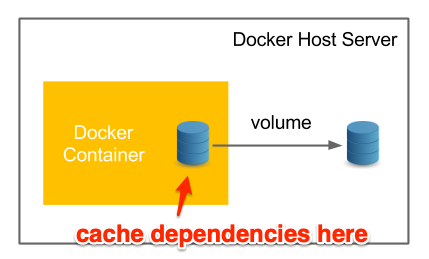
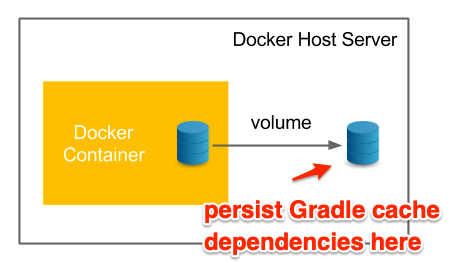
Add new and start emulator base on host machine settings (#18)
* Add new start emulator base on host machine

* Update travis config to run UI Tests

Changed region(s): [[0.0303, 0.0618, 1.0, 0.9884]]

diff --git a/README.md b/README.md
@@ -11,10 +11,10 @@
 
 
 # Gradle
-You can either use Gradle Wrapper or Local Installation to perform desired tasks but IMO, you should choose first option whenever it's possible, to gain the following benefits:
+You can either use Gradle Wrapper or Local Installation to perform desired tasks but IMO, you should choose first option whenever it's because of these following reasons:
 
 * Reliable. Different users get the same build result on a given Gradle version.
-* Configurable. Let's say that you want to provision a new version of Gradle to different users and execution environments (IDE, CI machine, etc), imagin how easy it is when people just needs to get the lastest configs, Wrapper will take care the rest.
+* Configurable. Let's say that you want to provision a new version of Gradle to different users and execution environments (IDE, CI machine, etc), you only need to update the config file, Wrapper will take care the rest.
 
 
 ### Understand Gradle Wrapper
@@ -22,14 +22,14 @@ Gradle wrapper is simply a script that allow user to run the build with predefin
 
 ![gradle wrapper properties](https://github.com/fastphat/android-container/blob/master/images/gradle-wrapper.png?raw=true)
 
-To change the version of Gradle Wrapper, grab one at [https://services.gradle.org/distributions/](https://services.gradle.org/distributions/) and update value of `distributionUrl`.
+To change the version of Gradle Wrapper, grab one at [https://services.gradle.org/distributions/](https://services.gradle.org/distributions/) and update `distributionUrl`.
 
 ### How to cache gradle distribution and build dependencies?
 By default all files downloaded under docker container doesn't persist if that container is removed. Therefore, Gradle needs to download it's distribution and build dependencies for every build. 
 
-In order to prevent that behavior, Docker offers a solution called [Volume](https://docs.docker.com/storage/). Volumes are typically directories or files on host filesystem and are accessible from both container and host machine. That mean they will not be removed after the container is no longer exist.
+In order to prevent that behavior, Docker offers a solution called [Volume](https://docs.docker.com/storage/). Volumes are typically directories or files on host filesystem and are accessible from both container and host. That mean they will not be removed after the container is wiped out.
 
-The Gradle cached files are by default located under `GRADLE_USER_HOME`, which is `/`, so you can persist them in another directory, for instance, `/cache`. See how volume are defined as following:
+The Gradle cached files are by default located under `GRADLE_USER_HOME`, which is `/`, so you can keep it there and move them to another directory, just make sure to define a volume for that path. 
 
 ```
 ENV GRADLE_USER_HOME=/cache
@@ -50,7 +50,7 @@ Some useful commands for Docker volume:
 
 ### Cached Gradle Test Result
 
-The second build only tooks only 55s instead of 4m 25s for doing the same task. 
+The second build only tooks only 55s instead of 4m 25s for doing the same task. In other words, we save more than 3m for redownload Gradle distribution and app dependencies.
 
 ![build time comparision](https://github.com/fastphat/android-container/blob/master/images/build-time.png?raw=true)
 
@@ -58,7 +58,22 @@ The second build only tooks only 55s instead of 4m 25s for doing the same task.
 
 ![warning emulator](https://github.com/fastphat/android-container/blob/master/images/arm.png?raw=true)
 
-You probably see this prompt when booting an ARM-based emulator. They were old and deprecated since Android SDK Level 25. In the contrary, x86 (or x86_64) emulators are 10x faster. However, it requires your host to have hardware acceleration (HAXM on Mac & Windows, QEMU on Linux). In the context of this repo, I won't go too detail about architecture defination but focus more on improving the stability and perfomance of Android Emulator when perfoming UI tests.
+You probably see this prompt when booting an ARM-based emulator. They were old and deprecated since Android SDK Level 25. In the contrary, x86 (or x86_64) emulators are 10x faster. However, it requires your host to have hardware acceleration (HAXM on Mac & Windows, QEMU on Linux). 
+
+I won't go too detail about architecture defination but focus more on improving the stability and perfomance of Android Emulator when perfoming UI tests. 
+
+### Auto select right Emulator Arch
+The script below simply checks if host system supports Hardware Accelerator and KVM. If the answer is yes, there you go, x86 Emulator. If it is not, let's go with ARM Emulator then.
+
+```shell
+  cpu_support_hardware_acceleration=$(grep -cw ".*\(vmx\|svm\).*" /proc/cpuinfo)
+  kvm_support=$(kvm-ok)
+
+  emulator_name=${EMULATOR_NAME_ARM}
+  if [ "$cpu_support_hardware_acceleration" != 0 ] && [ "$kvm_support" != *"NOT"* ]; then
+    emulator_name=${EMULATOR_NAME_x86}
+  fi
+```
 
 ### Avoid Flaky Tests
 Long story short: Disable animation when Android emulator is fully loaded and ready to use.
@@ -94,7 +109,7 @@ disable_animation
 
 ```
 
-There are few additional adb commands that might work for you.
+There are few additional adb commands might suit for you in some cases.
 
 ```shell
 # Disable soft keyboard
